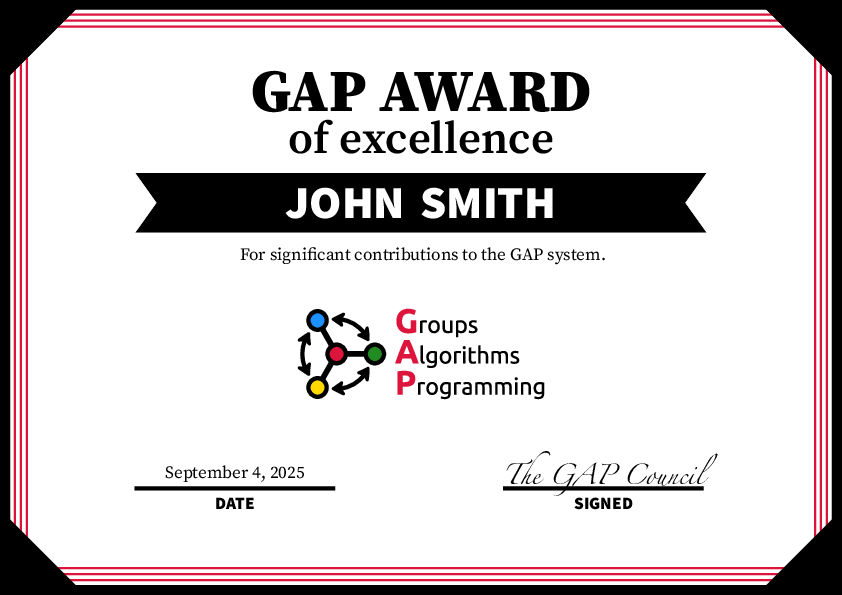
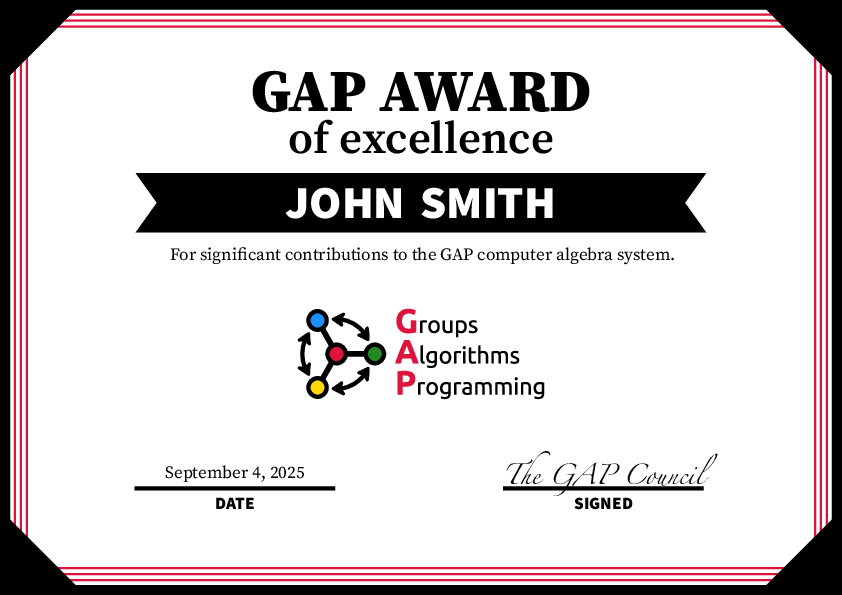
tweaks

Changed region(s): [[0.1853, 0.3933, 0.8029, 0.4538]]

diff --git a/template.tex b/template.tex
@@ -38,7 +38,7 @@
 \subheading{of excellence} % The subheading to the main heading, useful for qualifying the main heading, leave empty if not required (i.e. \subheading{})
 
 
-\largedescription{For significant contributions to the GAP system.} % The large description line under the recipient name, useful for stating what the certificate is for or writing a congratulatory message, leave empty if not required (i.e. \largedescription{})
+\largedescription{For significant contributions to the GAP computer algebra system.} % The large description line under the recipient name, useful for stating what the certificate is for or writing a congratulatory message, leave empty if not required (i.e. \largedescription{})
 \smalldescription{} % The smaller description under the large description, useful for a further classification of the certificate, leave empty if not required (i.e. \smalldescription{})
 
 \leftlinetitle{Date} % The title under the left line, will be made uppercase automatically and can be left empty if not required (i.e. \leftlinetitle{}) in which case the right line will be horizontally centered (if present)
